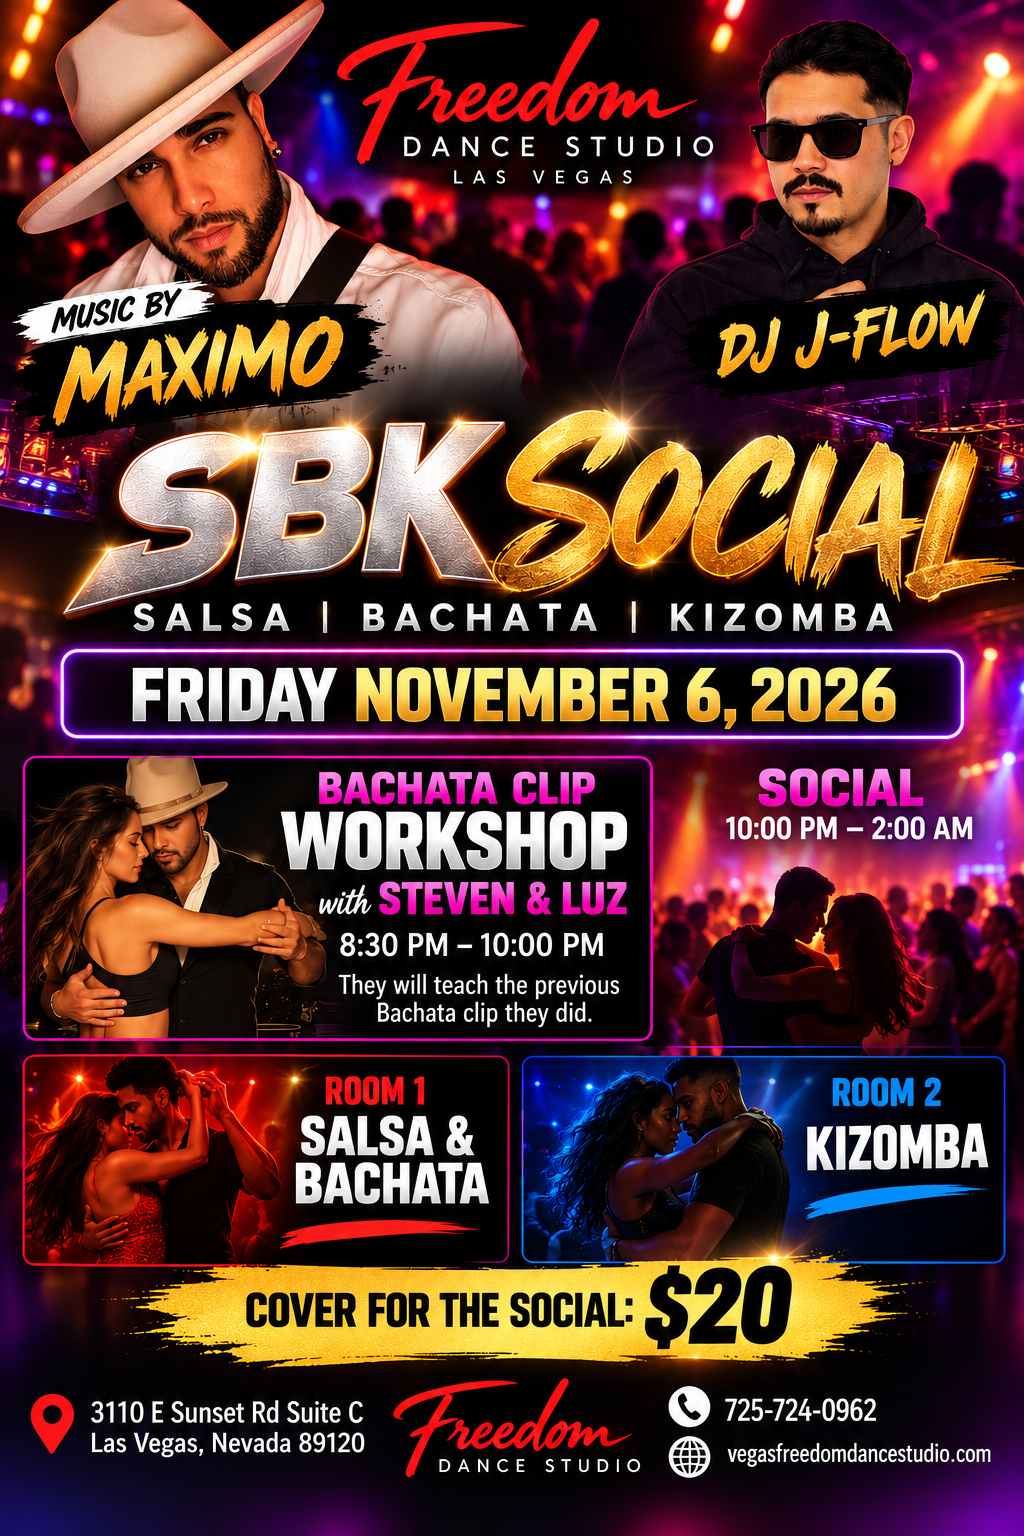
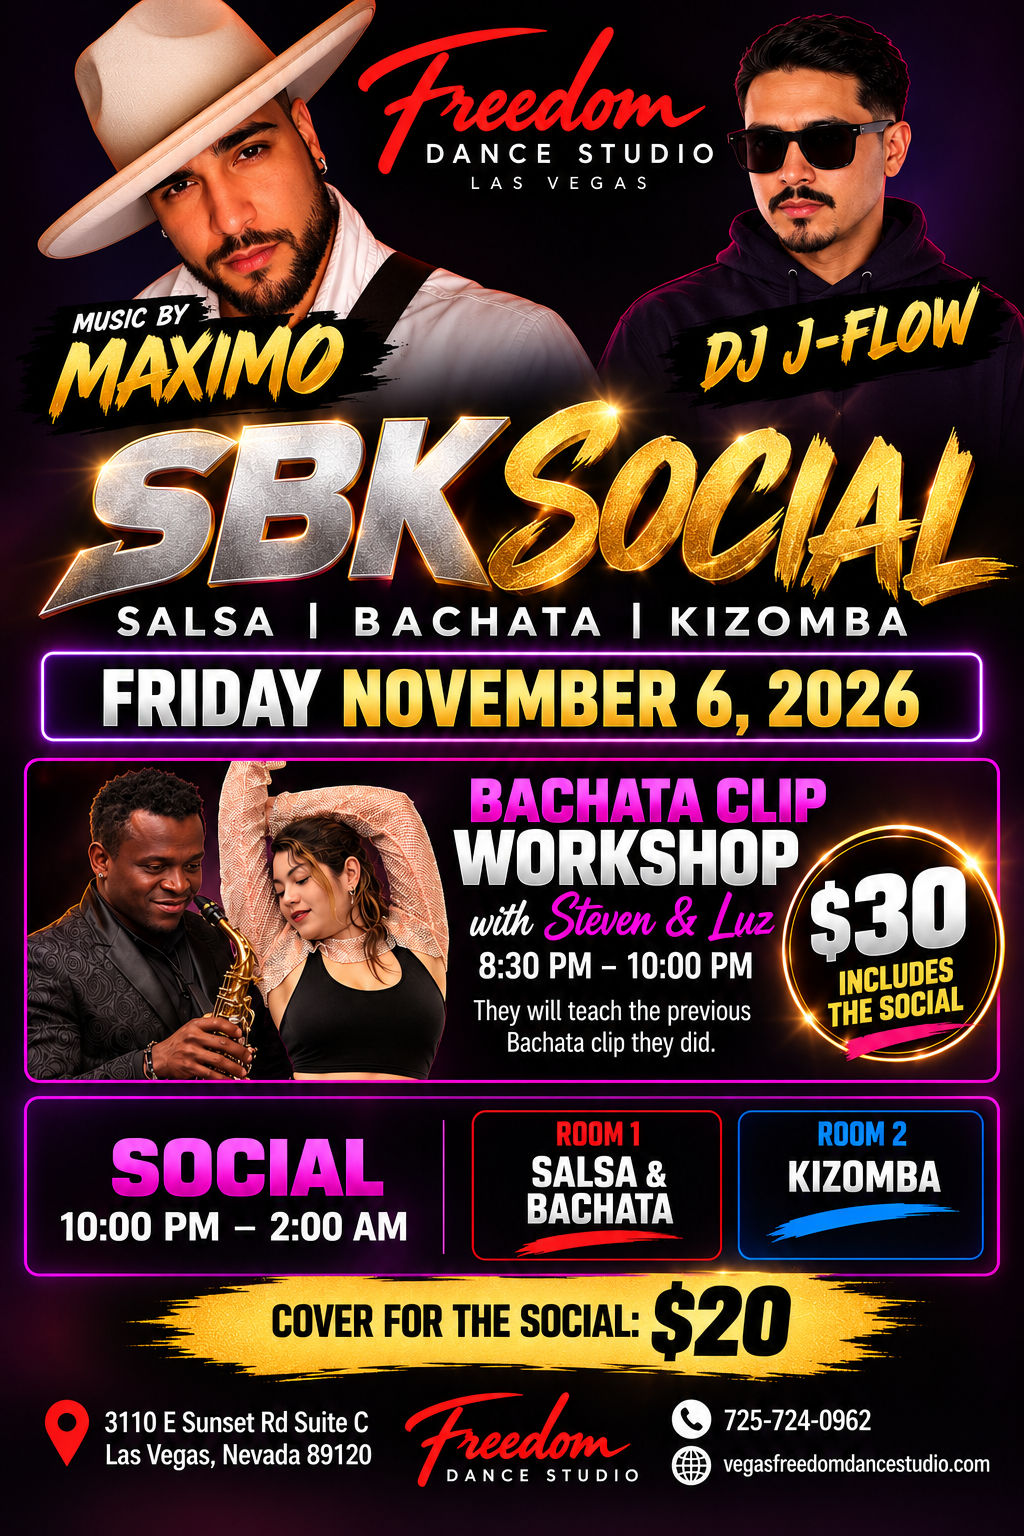
update the instructor the workshop the social

diff --git a/src/data/eventsData.js b/src/data/eventsData.js
@@ -1,7 +1,6 @@
-import freeman from "../assets/freeman.png";
+import stevenLuz from "../assets/stevenLuz.png";
 import social from "../assets/freedom.png";
 import styling from "../assets/styling.png";
-import carlo from "../assets/instructors/carlos.jpeg";
 import bachataZouk from "../assets/instructors/bachataZouk1.jpeg";
 
 export const events = [
@@ -43,59 +42,57 @@ export const events = [
 
     button: "Join the Class",
 
-    showInHero: true,
+    showInHero: false,
+
+    featured: false,
+  },
+
+  {
+    id: 9,
+
+    eventStart: "2026-11-06",
+
+    day: "Friday",
+
+    type: "WORKSHOP",
+
+    title: "Bachata Workshop with Steven & Luz",
+
+    instructor: "Steven • Luz",
+
+    date: "November 6, 2026",
+
+    time: "8:30 PM – 10:00 PM",
+
+    image: stevenLuz,
+
+    imageFit: "contain",
+
+    location: "Freedom Dance Studio",
+
+    address: "3110 E. Sunset Rd., Suite C, Las Vegas, NV 89120",
+
+    schedule: [
+      {
+        time: "8:30 PM – 10:00 PM",
+        title: "Bachata Choreography Workshop",
+        instructors: "Steven • Luz",
+      },
+    ],
+
+    price: "$30",
+
+    priceDetails: "90-Minute Bachata Workshop",
+
+    description:
+      "Join Steven and Luz for a special 90-minute Bachata workshop! Learn the choreography from their previous Bachata video clip, improve your technique, musicality, and partnerwork, and have fun dancing with us. Come learn the moves and enjoy an unforgettable evening at Freedom Dance Studio!",
+
+    button: "Register Now",
+
+    showInHero: false,
 
     featured: true,
   },
-
-  // {
-  //   id: 9,
-
-  //   eventStart: "2026-09-26",
-
-  //   type: "WORKSHOP",
-
-  //   title: "Salsa Styling & Partnerwork Workshop",
-
-  //   instructor: "Freeman • Sandra",
-
-  //   date: "September 26, 2026",
-
-  //   time: "2:00 PM",
-
-  //   image: freeman,
-
-  //   imageFit: "contain",
-
-  //   location: "Freedom Dance Studio",
-
-  //   schedule: [
-  //     {
-  //       time: "2:00 PM",
-  //       title: "Men's Styling & Ladies Styling",
-  //       instructors: "Freeman • Sandra",
-  //     },
-  //     {
-  //       time: "3:00 PM",
-  //       title: "Salsa On 2 Partnerwork",
-  //       instructors: "Freeman • Sandra",
-  //     },
-  //   ],
-
-  //   price: "$25",
-
-  //   priceDetails:
-  //     "Early Bird • $40 at the Door • Donation for Members & Instructors",
-
-  //   description:
-  //     "Join Freeman and Sandra for a special Salsa workshop. At 2:00 PM, train Men's Styling and Ladies Styling. At 3:00 PM, bring everything together with Salsa On 2 Partnerwork. Early bird admission is $25, $40 at the door, and donation-based for Freedom Dance Studio members and instructors.",
-
-  //   button: "Register Now",
-
-  //   showInHero: false,
-
-  //   featured: false,
-  // },
 
   {
     id: 10,

diff --git a/src/components/IndependentClasses.jsx b/src/components/IndependentClasses.jsx
@@ -14,7 +14,6 @@ import { BsInstagram } from "react-icons/bs";
 import { Link } from "react-router-dom";
 import { motion } from "framer-motion";
 
-import KarolActingClasses from "./KarolActingClasses";
 import InstructorClassModal from "./InstructorClassModal";
 
 // ======================================================
@@ -26,6 +25,7 @@ import luis from "../assets/instructors/luis1.jpg";
 import luz from "../assets/instructors/luz.png";
 import Rodolfo from "../assets/instructors/Rodolfo.jpeg";
 import Sandra from "../assets/instructors/sandra2.jpeg";
+import karol_profil3 from "../../public/images/4.jpeg";
 
 // ======================================================
 // INDEPENDENT CLASSES
@@ -115,6 +115,33 @@ const independentClasses = [
     video: "https://youtu.be/FBbGFDKIMdQ?si=T_jDehxqFwSAi0gC",
   },
 
+  {
+    id: 9,
+    day: "Friday",
+    date: "Every Friday",
+    title: "Kids Acting Classes",
+    time: "4:30 PM",
+    instructor: "Karol Di Nassif",
+    category: "Kids / Acting / Theater",
+    phone: "+1 (702) 496-7934",
+    instagram: "",
+    description:
+      "Kids Acting Classes for ages 6–12 with professional actress and TV presenter Karol Di Nassif. Children develop confidence, creativity, storytelling, improvisation, camera performance, and audition skills in a fun and supportive environment. No previous acting experience required. Classes are ongoing, and new students are welcome. $80 monthly or $25 per class.",
+    image: karol_profil3,
+    video: "",
+    level: "Beginner Friendly",
+    ageGroup: "6–12 years",
+    drop: "$25",
+    monthly: "$80",
+    location: "Freedom Dance Studio",
+    address: "3110 E Sunset Rd, Suite C, Las Vegas, NV 89120",
+    booking:
+      "https://wa.me/17024967934?text=Hi%20Karol!%20I%20would%20like%20to%20register%20my%20child%20for%20Kids%20Acting%20Classes.",
+
+    // Dedicated component navigation
+    route: "/kids-acting",
+    buttonText: "View Acting Program",
+  },
   {
     id: 6,
     day: "Friday",
@@ -593,8 +620,6 @@ export default function IndependentClasses() {
       {/* ==================================================
           KAROL FEATURE
       ================================================== */}
-
-      <KarolActingClasses />
 
       {/* ==================================================
           INDEPENDENT CLASSES

diff --git a/src/App.jsx b/src/App.jsx
@@ -27,6 +27,7 @@ import RentalBooking from "./components/RequestAvailable";
 import RentalPrices from "./components/RentalPrices";
 import BachataIntensiveBooking from "./components/BachataIntensiveBooking";
 import FreedomStudioAgreement from "./components/FreedomStudioAgreement";
+import KarolActingClasses from "./components/KarolActingClasses";
 
 const router = createBrowserRouter([
   {
@@ -134,6 +135,10 @@ const router = createBrowserRouter([
       {
         path: "independent",
         element: <IndependentClasses />,
+      },
+      {
+        path: "acting",
+        element: <KarolActingClasses />,
       },
 
       {
